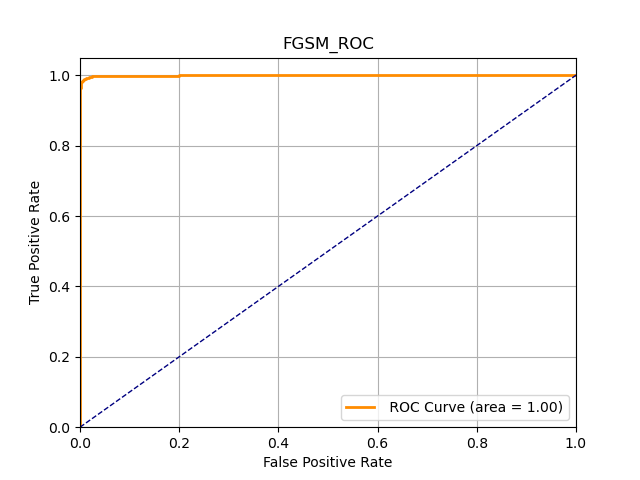
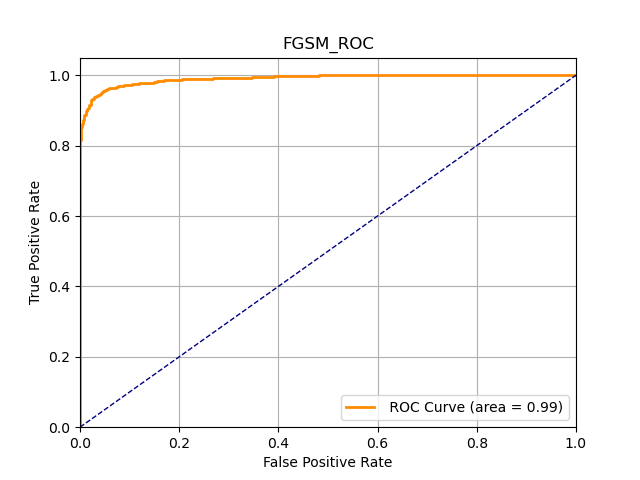
roc sul test

Changed region(s): [[0.125, 0.1562, 0.5, 0.2812], [0.8125, 0.8438, 0.875, 0.875]]

diff --git a/detector_roc.py b/detector_roc.py
@@ -45,14 +45,18 @@ def main():
         print(f"Detector caricato da: {model_path}")
 
         # solo per prova
-        images_dir = "./dataset/detectors_train_set/adversarial_examples/" + attack_type
+        images_dir = "./dataset/test_set/adversarial_examples/" + attack_type + "/untargeted"
         #target_dir = "targeted" if targeted else "untargeted"
         imgs_adv = load_images_from_npy_folder(images_dir)
         imgs_adv = np.array(imgs_adv).reshape(-1, 3, 224, 224)
-        adversarial_probs = []
-        final_labels = []
-        adv_test = []
-        #print(f"Shape dati clean: {np.shape(sampled_images)} \nShape dati adversarial: {np.shape(imgs_adv)}")
+        selected = []
+
+        # seleziono 200 immagini per ogni attacco
+        for i in range(0, imgs_adv.shape[0], 1000):
+            selected.append(imgs_adv[i:i+200])
+        imgs_adv = np.concatenate(selected, axis=0)
+        
+        print(f"Shape dati clean: {np.shape(sampled_images)} \nShape dati adversarial: {np.shape(imgs_adv)}")
         adv_labels = np.ones(len(imgs_adv), dtype=bool) # label associate a immagini avversarie (classe 1)
         final_test = np.concatenate((imgs_adv, sampled_images), axis=0)
         #print(f"final test shape: {np.shape(final_test)}")
